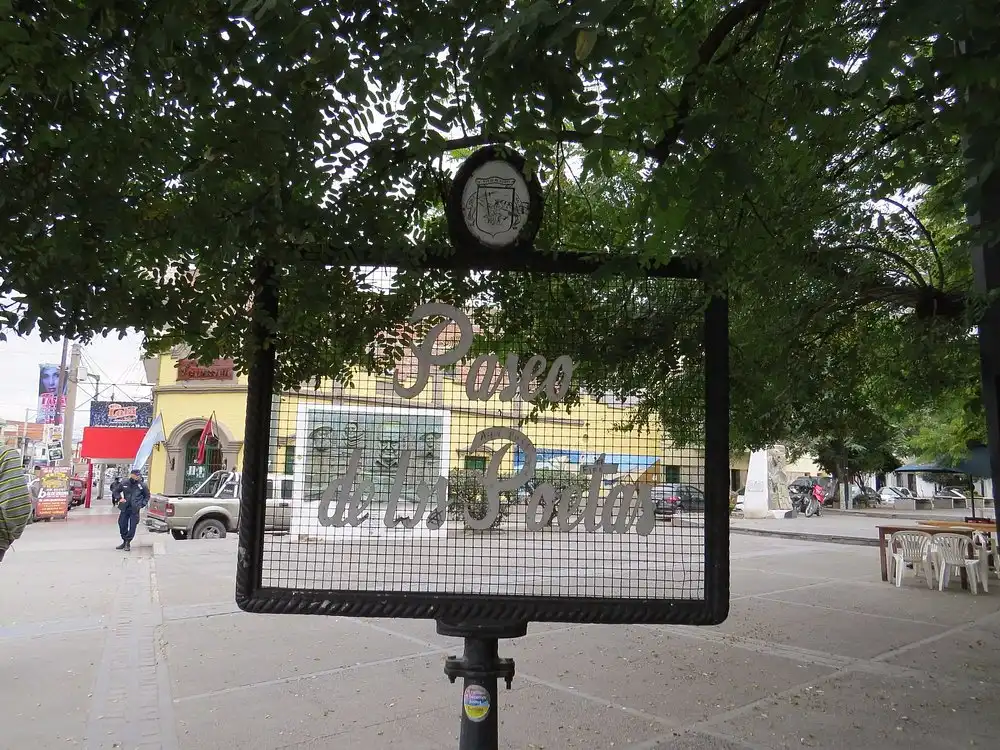
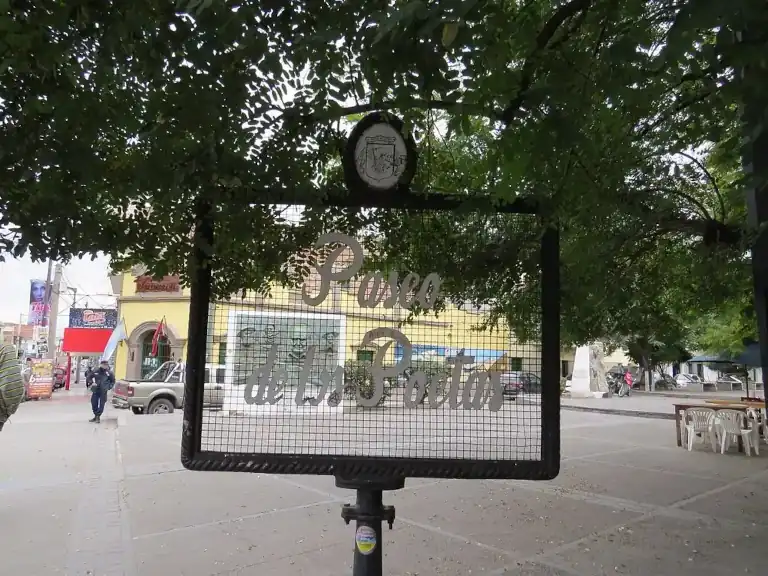
update

diff --git a/chamber/styles/base.css b/chamber/styles/base.css
@@ -172,7 +172,7 @@ footer {
   justify-content: center;
   align-items: center;
   column-gap: 0.5rem;
-  margin-bottom: 0.5rem;
+  margin-bottom: 1rem;
 }
 
 #info div:first-child img {
@@ -227,13 +227,20 @@ footer address {
   margin-bottom: 0.5rem;
 }
 
+.image-grid figure:last-child {
+  margin-bottom: unset;
+}
+
 .image-grid figure figcaption {
   position: absolute;
   bottom: 0;
   left: 0;
-  padding: 0.5rem;
+  width: 100%;
+  padding: 1rem;
   backdrop-filter: blur(5px);
+  background-color: #000000aa;
   color: #fff;
+  font-size: clamp(.75rem, 5vw, 1.2rem);
 }
 
 .footdown {
@@ -362,19 +369,76 @@ textarea {
   margin-bottom: 1rem;
 }
 
-#directory {
+.buttonsView {
+  margin-bottom: 1rem;
+  text-align: center;
+}
+
+.buttonsView button {
+  border: 1px solid #aaa;
+  border-radius: 8px;
+  padding: .4rem .8rem;
+  cursor: pointer;
+}
+
+.buttonsView button:hover {
+  background-color: #444;
+  color: #fff;
+}
+
+.directoryGridView {
   display: grid;
   grid-template-columns: repeat(auto-fit, minmax(250px, 1fr));
   gap: 1rem;
 }
 
-.memberCard {
+.directoryListView {
+  display: grid;
+  grid-template-columns: 1fr;
+  font-size: .75rem;
+}
+
+.directoryListView .memberCard {
+  display: grid;
+  grid-template-columns: repeat(3, 1fr);
+  column-gap: .5rem;
+  padding: 1rem;
+  align-items: center;
+}
+
+.directoryListView .memberCard:nth-child(odd) {
+  background-color: #ddd;
+}
+
+.directoryListView .memberCard:nth-child(even) {
+  background-color: #999;
+}
+
+.directoryListView .memberCard img {
+  display: none;
+}
+
+.directoryListView .memberCard h2 {
+  margin-bottom: unset;
+  font-size: .75rem;
+  text-wrap: wrap;
+}
+
+.directoryListView .memberCard a {
+  color: #000;
+}
+
+.directoryListView .memberCard a:hover {
+  color: #444;
+}
+
+.directoryGridView .memberCard {
   position: relative;
   min-height: 300px;
   border: 1px solid #aaa;
 }
 
-.memberCard h2 {
+.directoryGridView .memberCard h2 {
   position: absolute;
   top: 0;
   left: 0;
@@ -386,13 +450,13 @@ textarea {
   text-align: center;
 }
 
-.memberCard img {
+.directoryGridView .memberCard img {
   width: 100%;
   height: 100%;
   object-fit: cover;
 }
 
-.memberCard p {
+.directoryGridView .memberCard p {
   position: absolute;
   bottom: 0;
   left: 0;
@@ -407,11 +471,11 @@ textarea {
   text-align: center;
 }
 
-.phone {
+.directoryGridView .memberCard .phone {
   font-size: 0.8rem;
 }
 
-.memberCard a {
+.directoryGridView .memberCard a {
   position: absolute;
   top: 50%;
   left: 50%;
@@ -423,6 +487,6 @@ textarea {
   color: #fff;
 }
 
-.memberCard a:hover {
+.directoryGridView .memberCard a:hover {
   border-color: #ffffff70;
 }

diff --git a/chamber/discover.html b/chamber/discover.html
@@ -69,12 +69,12 @@
     <div class="gallery">
       <div class="image-grid">
         <figure>
-          <img src="images/plaza-san-martin.webp" alt="Plaza San Martín in Ituzaingó" loading="lazy" width="900"
-            height="577">
+          <img src="images/plaza-san-martin.webp" alt="Plaza San Martín in Ituzaingó" loading="lazy" width="768"
+            height="492">
           <figcaption>Plaza San Martín, a popular local park in the heart of the city.</figcaption>
         </figure>
         <figure>
-          <img src="images/paseo-de-los-poetas.webp" alt="Paseo de los Poetas" loading="lazy" width="1000" height="750">
+          <img src="images/paseo-de-los-poetas.webp" alt="Paseo de los Poetas" loading="lazy" width="768" height="576">
           <figcaption>Paseo de los Poetas, a cultural spot with sculptures of famous Argentine poets.</figcaption>
         </figure>
         <figure>
@@ -82,15 +82,15 @@
           <figcaption>Casa Anchordoqui, a historic landmark representing the city's colonial past.</figcaption>
         </figure>
         <figure>
-          <img src="images/museo.jpg" alt="Museo Histórico de Ituzaingó" loading="lazy" width="960" height="72">
+          <img src="images/museo.webp" alt="Museo Histórico de Ituzaingó" loading="lazy" width="768" height="576">
           <figcaption>Museo Histórico, where the history of Ituzaingó is preserved.</figcaption>
         </figure>
         <figure>
-          <img src="images/parque-leloir.jpg" alt="Parque Leloir in Ituzaingó" loading="lazy" width="1280" height="960">
+          <img src="images/parque-leloir.webp" alt="Parque Leloir in Ituzaingó" loading="lazy" width="768" height="576">
           <figcaption>Parque Leloir, a natural reserve and recreation area perfect for outdoor activities.</figcaption>
         </figure>
         <figure>
-          <img src="images/iglesia-santa-rita.jpg" alt="Iglesia Santa Rita" loading="lazy" width="1280" height="720">
+          <img src="images/iglesia-santa-rita.webp" alt="Iglesia Santa Rita" loading="lazy" width="768" height="342">
           <figcaption>Iglesia Santa Rita, a beautiful church and one of the oldest in the region.</figcaption>
         </figure>
       </div>

diff --git a/chamber/scripts/directory.js b/chamber/scripts/directory.js
@@ -1,4 +1,6 @@
 const main = document.querySelector("#directory");
+const gridViewButton = document.querySelector("#gridViewButton");
+const listViewButton = document.querySelector("#listViewButton");
 
 const urlMembers = "https://n0m3l4c000nt35.github.io/wdd230/chamber/data/members.json";
 
@@ -23,5 +25,14 @@ const fetchMembers = async () => {
   const { members } = await response.json();
   displayMembers(members);
 };
+
+gridViewButton.addEventListener("click", () => {
+  main.classList.remove("directoryListView");
+  main.classList.add("directoryGridView");
+});
+listViewButton.addEventListener("click", () => {
+  main.classList.remove("directoryGridView");
+  main.classList.add("directoryListView");
+});
 
 fetchMembers();

diff --git a/chamber/styles/larger.css b/chamber/styles/larger.css
@@ -85,9 +85,14 @@
     justify-content: space-evenly;
   }
 
+  #info div:first-child {
+    margin-bottom: unset;
+  }
+
   #discover {
     display: grid;
     grid-template-columns: 1fr 2fr;
+    column-gap: 1rem;
   }
 
   .image-grid figure {
@@ -123,7 +128,7 @@
     grid-template-columns: auto auto;
   }
 
-  #directory {
+  .directoryGridView {
     padding: unset;
   }
 }

diff --git a/chamber/directory.html b/chamber/directory.html
@@ -48,7 +48,11 @@
 
   <main class="directoryContainer">
     <h2>Business Directory</h2>
-    <div id="directory"></div>
+    <div class="buttonsView">
+      <button id="gridViewButton">Grid</button>
+      <button id="listViewButton">List</button>
+    </div>
+    <div id="directory" class="directoryGridView"></div>
   </main>
 
   <footer>
